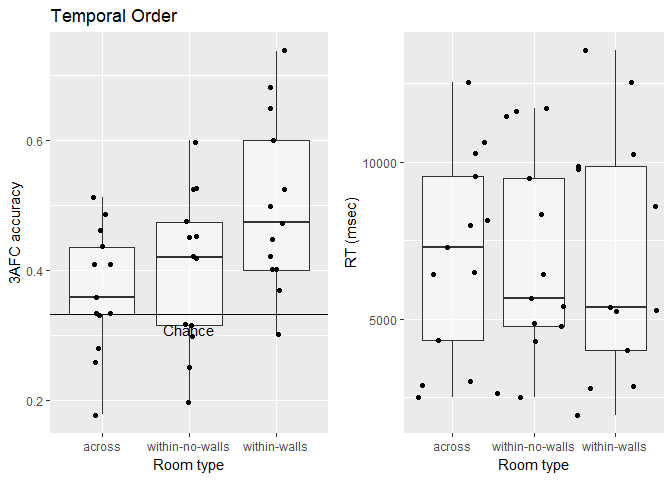
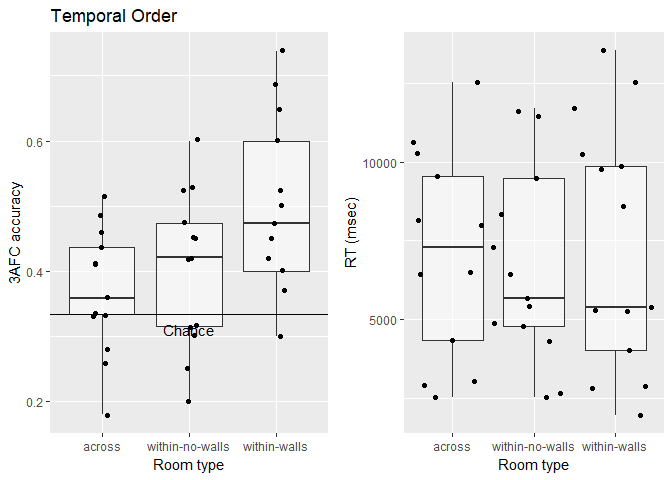
Update analysis of Batch 3
- Add Aidan's table
- Plot effect seperately for conditions
- Add interaction between foil distance and context

diff --git a/analysis/memoryTask_batch3.md b/analysis/memoryTask_batch3.md
@@ -1,136 +1,152 @@
 Analysis of memory task
 ================
 
-# Analyse data
+Analyse data
+============
 
-## Temporal order memory
+Temporal order memory
+---------------------
 
-![](memoryTask_batch3_files/figure-gfm/unnamed-chunk-1-1.png)<!-- -->
+![](memoryTask_batch3_files/figure-markdown_github/unnamed-chunk-1-1.png)
 
-As you can see above, most participants now perform above chance. Below,
-you see the ANOVA compring the different conditions.
+As you can see above, most participants now perform above chance. Below, you see the ANOVA comparing the different conditions.
 
-Interestingly, there was a main effect of context, p = .03. In
-**uncorrected** pairwise t-tests, performance in the within-wall
-condition was better than across rooms, p = .007, and better than in the
-within-no-walls condition, p = .041. However, performance in the
-within-no-wall condition was not better than in the across condition, p
-= .45. The average values can be found here:
+Interestingly, there was a main effect of context, p = .03. In **uncorrected** pairwise t-tests, performance in the within-wall condition was better than across rooms, p = .007, and better than in the within-no-walls condition, p = .041. However, performance in the within-no-wall condition was not better than in the across condition, p = .45. The average values can be found here:
 
-| context         |  accuracy |        SD |
-| :-------------- | --------: | --------: |
-| across          | 0.3688363 | 0.0962469 |
-| within-no-walls | 0.4038462 | 0.1189249 |
-| within-walls    | 0.5008097 | 0.1322718 |
+| context         |   accuracy|         SD|
+|:----------------|----------:|----------:|
+| across          |  0.3688363|  0.0962469|
+| within-no-walls |  0.4038462|  0.1189249|
+| within-walls    |  0.5008097|  0.1322718|
 
-### Temporal memory: across vs. within
+The mean accuracy difference between across and within-no-walls is 0.035 (SD = 0.0795), while it is 0.132 (SD = 0.1693) for the within-wall condition. Here is the Table 1 from his paper for *'Which object came next?'*
 
-![](memoryTask_batch3_files/figure-gfm/unnamed-chunk-4-1.png)<!-- -->
+| Experiment | Context |  accuracy|    SD|
+|:-----------|:--------|---------:|-----:|
+| Exp 1      | within  |      0.52|  0.15|
+| Exp 1      | across  |      0.42|  0.10|
+| Exp 2      | within  |      0.45|  0.17|
+| Exp 2      | across  |      0.38|  0.18|
+| Exp 3      | within  |      0.52|  0.18|
+| Exp 3      | across  |      0.44|  0.14|
 
-When I colllasp across both within-room conditions, the difference
-between across and within rooms is significantly different, p = .029.
+his boundary effects are 0.1, 0.07, 0.08 and for the question *'Which object came before?'*
 
-## Room and table question
+| Experiment | Context |  accuracy|    SD|
+|:-----------|:--------|---------:|-----:|
+| Exp 1      | within  |      0.42|  0.15|
+| Exp 1      | across  |      0.38|  0.13|
+| Exp 2      | within  |      0.46|  0.21|
+| Exp 2      | across  |      0.41|  0.16|
+| Exp 3      | within  |      0.49|  0.18|
+| Exp 3      | across  |      0.44|  0.17|
 
-![](memoryTask_batch3_files/figure-gfm/unnamed-chunk-5-1.png)<!-- -->
+here the boundary effects are 0.04, 0.05, 0.05. This is not much different from our effect if this is not just noise. The problem is that those low effects are observed for the question that we're not testing. It could very well that we just don't have enough power for to find this effect. The question then would be why is the effect stronger in the within-wall condition.
 
-As in Batch 2, participants did not perform above chance for the room
-type question, p = .534 but they did for the table question, p = .005.
+### Temporal memory: across vs. within
 
-# Predicting trial-to-trial accruacy and influence of foil distance
+![](memoryTask_batch3_files/figure-markdown_github/unnamed-chunk-6-1.png)
 
-For this section, I fished around to see what the relationship between
-context and foil distance might be and whether the effect of context
-differs as a function of the foil distance.
+When I colllasp across both within-room conditions, the difference between across and within rooms is significantly different, p = .008. The mean differnce is 0.0828 (SD = 0.0931 ).
 
-|                        | Estimate |   SE |      Z |      P | Sig    |
-| ---------------------- | -------: | ---: | -----: | -----: | :----- |
-| (Intercept)            |   \-0.54 | 0.11 | \-4.94 | 0.0000 | \*\*\* |
-| contextwithin-no-walls |     0.15 | 0.16 |   0.92 | 0.3560 |        |
-| contextwithin-walls    |     0.54 | 0.16 |   3.47 | 0.0005 | \*\*\* |
+Room and table question
+-----------------------
 
-In a logistic regrression model (see above) with context as fixed effect
-and a random intercept for each participant, the contrast between across
-and within-no-wall was not significant, p = .356, while the contrast
-between across and within-walls was, p \< .001.
+![](memoryTask_batch3_files/figure-markdown_github/unnamed-chunk-7-1.png)
 
-|             | Estimate |   SE |      Z |      P | Sig    |
-| ----------- | -------: | ---: | -----: | -----: | :----- |
-| (Intercept) |   \-0.67 | 0.19 | \-3.47 | 0.0005 | \*\*\* |
-| minDist     |     0.01 | 0.01 |   1.53 | 0.1253 |        |
-| maxDist     |     0.00 | 0.00 |   0.98 | 0.3283 |        |
-| meanDist    |     0.00 | 0.00 | \-0.22 | 0.8265 |        |
+As in Batch 2, participants did not perform above chance for the room type question, p = .534 but they did for the table question, p = .005.
 
-In another step, I tried to predict accuracy by including fixed effects
-for the absolute minimum, maximum and mean distance values of foil 1
-(before cue/probe) and foil 2 (after cue/probe). In other words, for
-each trial I for instance used the minimum of both absolute distances.
-However as can you can see above, none significantly predicts accuracy.
+Predicting trial-to-trial accruacy and influence of foil distance
+=================================================================
 
-|             | Estimate |   SE |      Z |      P | Sig    |
-| ----------- | -------: | ---: | -----: | -----: | :----- |
-| (Intercept) |   \-0.65 | 0.19 | \-3.39 | 0.0007 | \*\*\* |
-| dist1       |   \-0.01 | 0.00 | \-1.33 | 0.1840 |        |
-| dist2       |     0.01 | 0.00 |   1.48 | 0.1382 |        |
+For this section, I fished around to see what the relationship between context and foil distance might be and whether the effect of context differs as a function of the foil distance.
 
-When I use the raw distance values of foil 1 and foil 2, there again
-were no significant effects even though the distance of foil 2 to the
-cue/probe was relatively small, p = .138.
+|                        |  Estimate|    SE|      Z|       P| Sig    |
+|------------------------|---------:|-----:|------:|-------:|:-------|
+| (Intercept)            |     -0.54|  0.11|  -4.94|  0.0000| \*\*\* |
+| contextwithin-no-walls |      0.15|  0.16|   0.92|  0.3560|        |
+| contextwithin-walls    |      0.54|  0.16|   3.47|  0.0005| \*\*\* |
 
-|                              | Estimate |   SE |      Z |      P | Sig    |
-| ---------------------------- | -------: | ---: | -----: | -----: | :----- |
-| (Intercept)                  |   \-0.75 | 0.17 | \-4.40 | 0.0000 | \*\*\* |
-| contextwithin-no-walls       |     0.47 | 0.28 |   1.69 | 0.0912 | .      |
-| contextwithin-walls          |     0.68 | 0.27 |   2.50 | 0.0123 | \*     |
-| dist2                        |     0.01 | 0.01 |   1.60 | 0.1091 |        |
-| contextwithin-no-walls:dist2 |   \-0.01 | 0.01 | \-1.46 | 0.1456 |        |
-| contextwithin-walls:dist2    |   \-0.01 | 0.01 | \-0.63 | 0.5257 |        |
+In a logistic regrression model (see above) with context as fixed effect and a random intercept for each participant, the contrast between across and within-no-wall was not significant, p = .356, while the contrast between across and within-walls was, p &lt; .001.
 
-In a next step, I included context and dist2 as predictors in the
-logistic regression model and allowed an interaction between both fixed
-effects. As you can see none of the interactions are significant but, a)
-there is again a significant contrast between across and within-walls, p
-= .012. Most interestingly, there is also trend for the contrast between
-across and within-no-walls, p = .091.
+|             |  Estimate|    SE|      Z|       P| Sig    |
+|-------------|---------:|-----:|------:|-------:|:-------|
+| (Intercept) |     -0.67|  0.19|  -3.47|  0.0005| \*\*\* |
+| minDist     |      0.01|  0.01|   1.53|  0.1253|        |
+| maxDist     |      0.00|  0.00|   0.98|  0.3283|        |
+| meanDist    |      0.00|  0.00|  -0.22|  0.8265|        |
 
-## Binary distance
+In another step, I tried to predict accuracy by including fixed effects for the absolute minimum, maximum and mean distance values of foil 1 (before cue/probe) and foil 2 (after cue/probe). In other words, for each trial I for instance used the minimum of both absolute distances. However as can you can see above, none significantly predicts accuracy.
 
-|                                    | Estimate |   SE |      Z |      P | Sig    |
-| ---------------------------------- | -------: | ---: | -----: | -----: | :----- |
-| (Intercept)                        |   \-0.70 | 0.14 | \-4.83 | 0.0000 | \*\*\* |
-| contextwithin-no-walls             |     0.30 | 0.24 |   1.27 | 0.2051 |        |
-| contextwithin-walls                |     0.68 | 0.23 |   3.01 | 0.0026 | \*\*   |
-| binDist2far                        |     0.31 | 0.19 |   1.69 | 0.0907 | .      |
-| contextwithin-no-walls:binDist2far |   \-0.31 | 0.32 | \-0.98 | 0.3292 |        |
-| contextwithin-walls:binDist2far    |   \-0.28 | 0.31 | \-0.89 | 0.3761 |        |
+|             |  Estimate|    SE|      Z|       P| Sig    |
+|-------------|---------:|-----:|------:|-------:|:-------|
+| (Intercept) |     -0.65|  0.19|  -3.39|  0.0007| \*\*\* |
+| dist1       |     -0.01|  0.00|  -1.33|  0.1840|        |
+| dist2       |      0.01|  0.00|   1.48|  0.1382|        |
 
-If I use a binary measure of foil distance instead of a continuous one,
-then the effects don’t chance a lot actually.
+When I use the raw distance values of foil 1 and foil 2, there again were no significant effects even though the distance of foil 2 to the cue/probe was relatively small, p = .138.
 
-## Effect of condition
+|                              |  Estimate|    SE|      Z|       P| Sig    |
+|------------------------------|---------:|-----:|------:|-------:|:-------|
+| (Intercept)                  |     -0.75|  0.17|  -4.40|  0.0000| \*\*\* |
+| contextwithin-no-walls       |      0.47|  0.28|   1.69|  0.0912| .      |
+| contextwithin-walls          |      0.68|  0.27|   2.50|  0.0123| \*     |
+| dist2                        |      0.01|  0.01|   1.60|  0.1091|        |
+| contextwithin-no-walls:dist2 |     -0.01|  0.01|  -1.46|  0.1456|        |
+| contextwithin-walls:dist2    |     -0.01|  0.01|  -0.63|  0.5257|        |
 
-|                                   | Estimate |   SE |      Z |      P | Sig  |
-| --------------------------------- | -------: | ---: | -----: | -----: | :--- |
-| (Intercept)                       |   \-0.50 | 0.19 | \-2.58 | 0.0100 | \*\* |
-| contextwithin-no-walls            |     0.13 | 0.29 |   0.44 | 0.6623 |      |
-| contextwithin-walls               |     0.35 | 0.28 |   1.25 | 0.2115 |      |
-| condition5                        |   \-0.05 | 0.30 | \-0.16 | 0.8689 |      |
-| condition6                        |   \-0.09 | 0.30 | \-0.29 | 0.7701 |      |
-| condition7                        |   \-0.05 | 0.30 | \-0.16 | 0.8691 |      |
-| contextwithin-no-walls:condition5 |   \-0.06 | 0.44 | \-0.13 | 0.8960 |      |
-| contextwithin-walls:condition5    |     0.75 | 0.44 |   1.70 | 0.0886 | .    |
-| contextwithin-no-walls:condition6 |     0.28 | 0.44 |   0.65 | 0.5165 |      |
-| contextwithin-walls:condition6    |     0.17 | 0.43 |   0.40 | 0.6898 |      |
-| contextwithin-no-walls:condition7 |   \-0.13 | 0.44 | \-0.29 | 0.7684 |      |
-| contextwithin-walls:condition7    |   \-0.05 | 0.43 | \-0.11 | 0.9087 |      |
+In a next step, I included context and dist2 as predictors in the logistic regression model and allowed an interaction between both fixed effects. As you can see none of the interactions are significant but, a) there is again a significant contrast between across and within-walls, p = .012. Most interestingly, there is also trend for the contrast between across and within-no-walls, p = .091.
 
-In the last step, I included condition as fixed effect. After replacing
-the problematic participants it’s a good sign that there are no
-significant interactions left between any context contrast and
-conditions.
+Binary distance
+---------------
 
-# Conclusion
+|                                    |  Estimate|    SE|      Z|       P| Sig    |
+|------------------------------------|---------:|-----:|------:|-------:|:-------|
+| (Intercept)                        |     -0.70|  0.14|  -4.83|  0.0000| \*\*\* |
+| contextwithin-no-walls             |      0.30|  0.24|   1.27|  0.2051|        |
+| contextwithin-walls                |      0.68|  0.23|   3.01|  0.0026| \*\*   |
+| binDist2far                        |      0.31|  0.19|   1.69|  0.0907| .      |
+| contextwithin-no-walls:binDist2far |     -0.31|  0.32|  -0.98|  0.3292|        |
+| contextwithin-walls:binDist2far    |     -0.28|  0.31|  -0.89|  0.3761|        |
 
-We have robust and strong effect in the within-wall condition and only
-when we controll for distance between foil 2 to the cue/probe, there is
-a trend for the contrast between across and within-no-walls.
+If I use a binary measure of foil distance instead of a continuous one, then the effects don't chance a lot actually.
+
+The mean accuracy between trial where foil 2 is far way compared to close is 0.0432 (SD = 0.0432), p = .167.
+
+| context         | binDist2 |    N|   accuracy|
+|:----------------|:---------|----:|----------:|
+| across          | close    |  263|  0.3346008|
+| across          | far      |  244|  0.4057377|
+| within-no-walls | close    |  109|  0.4036697|
+| within-no-walls | far      |  144|  0.4027778|
+| within-walls    | close    |  121|  0.4958678|
+| within-walls    | far      |  133|  0.5037594|
+
+I've furthermore tested the interaction between our contrasts (across vs. within-walls and across vs. wihtin-no-walls) and the distance between trials with close and far foil 2. The first contrasts shows no interaction, 0.1564 (SD = 0.171) vs 0.1059 (SD = 0.2123), p = .333, so that the boundary effect is similar for far and close foil 2s. The same is true for the contrast of across vs. within-no-walls,0.0714 (SD = 0.1379) vs -0.0053 (SD = 0.1566), p = .28.
+
+Effect of condition
+-------------------
+
+|                                   |  Estimate|    SE|      Z|       P| Sig  |
+|-----------------------------------|---------:|-----:|------:|-------:|:-----|
+| (Intercept)                       |     -0.50|  0.19|  -2.58|  0.0100| \*\* |
+| contextwithin-no-walls            |      0.13|  0.29|   0.44|  0.6623|      |
+| contextwithin-walls               |      0.35|  0.28|   1.25|  0.2115|      |
+| condition6                        |     -0.05|  0.30|  -0.16|  0.8689|      |
+| condition7                        |     -0.09|  0.30|  -0.29|  0.7701|      |
+| condition8                        |     -0.05|  0.30|  -0.16|  0.8691|      |
+| contextwithin-no-walls:condition6 |     -0.06|  0.44|  -0.13|  0.8960|      |
+| contextwithin-walls:condition6    |      0.75|  0.44|   1.70|  0.0886| .    |
+| contextwithin-no-walls:condition7 |      0.28|  0.44|   0.65|  0.5165|      |
+| contextwithin-walls:condition7    |      0.17|  0.43|   0.40|  0.6898|      |
+| contextwithin-no-walls:condition8 |     -0.13|  0.44|  -0.29|  0.7684|      |
+| contextwithin-walls:condition8    |     -0.05|  0.43|  -0.11|  0.9087|      |
+
+In the last step, I included condition as fixed effect. After replacing the problematic participants it's a good sign that there are no significant interactions left between any context contrast and conditions. To see how the results differ across the different conditions, I plot them seperately.
+
+![](memoryTask_batch3_files/figure-markdown_github/unnamed-chunk-16-1.png)
+
+Conclusion
+==========
+
+We have robust and strong effect in the within-wall condition and only when we controll for distance between foil 2 to the cue/probe, there is a trend for the contrast between across and within-no-walls.
